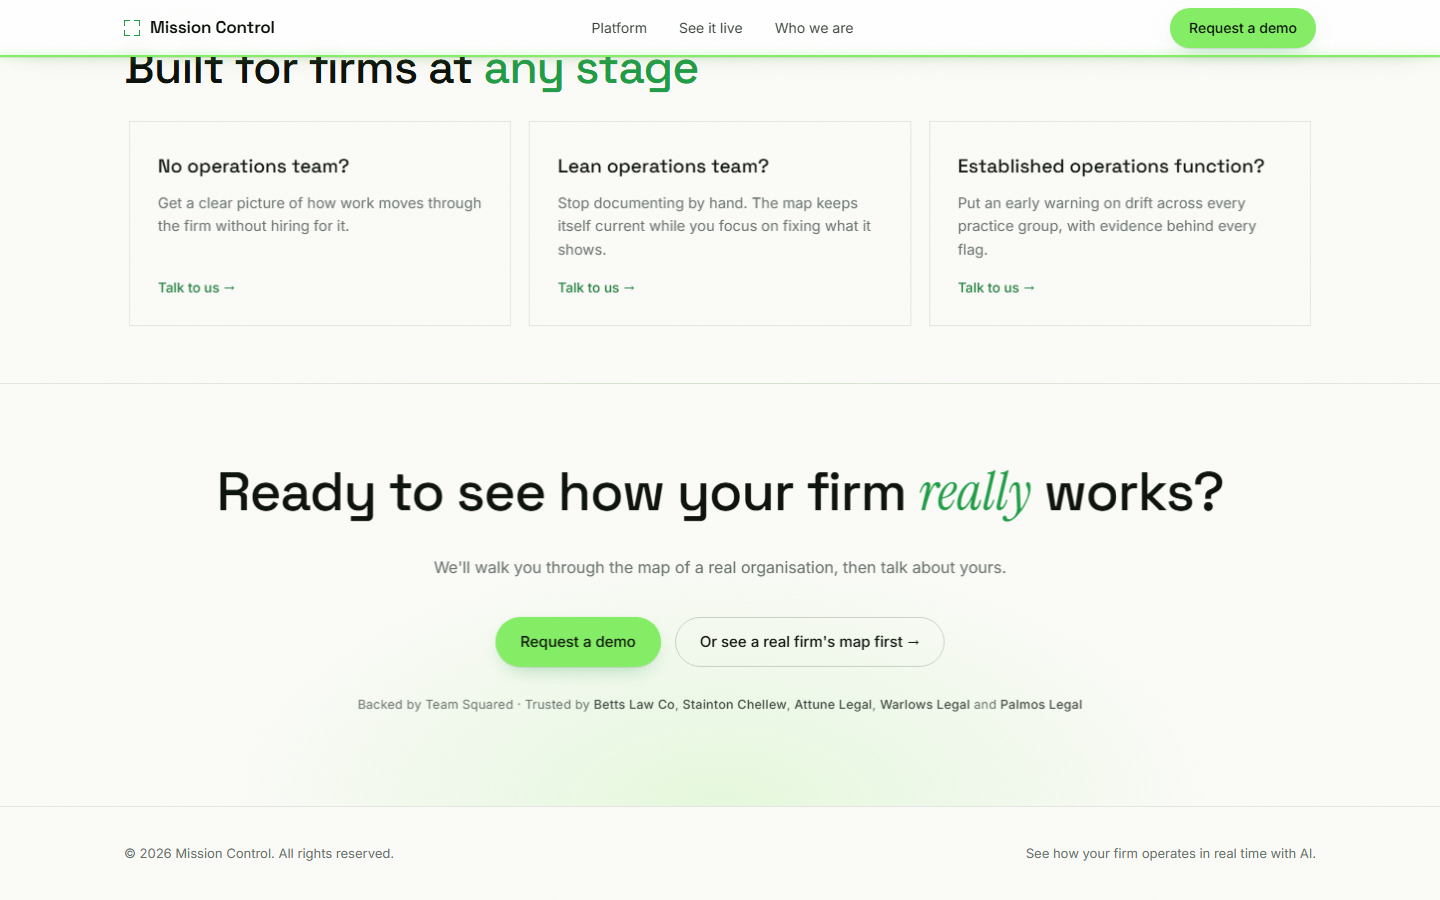
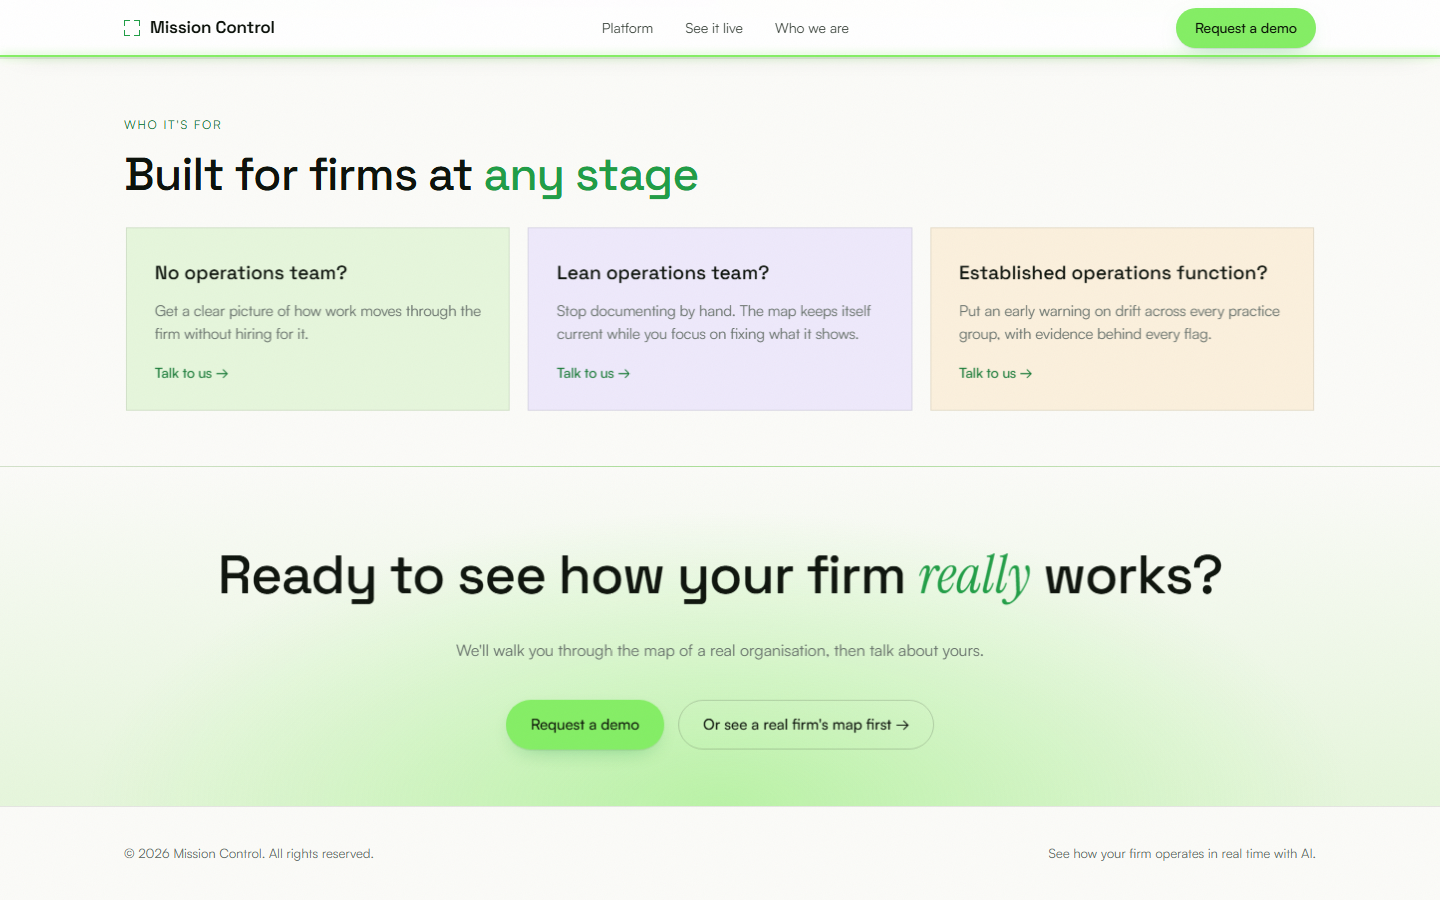
Colour bands, Satoshi body face, hero map in a window, atlas button
- Page alternates tints instead of staying white: gradient hero wash, tinted
  problem cards, a deep-forest band for "we ran it on ourselves", lime-tinted
  statement, violet-tinted "What Mission Control does", tinted privacy and
  stage cards, stronger lime wash on the close
- Body font is Satoshi (Fontshare), matching lex-ops.io; headings keep Space Grotesk
- Hero map sits inside a framed window beside the copy; departments repel
  harder inside a window so labels never touch
- Closing proof line removed; "Drag · Hover" capitalised
- Atlas: "Open workflow" is a proper lime pill; deep-dive panel lists workflows

diff --git a/src/styles.css b/src/styles.css
@@ -23,9 +23,16 @@
   --glow-magenta: #d948ae;
   --ember: #f59e0b;
   --amber: #d98a1e;
+  /* colour bands — the page alternates tints instead of staying white */
+  --tint-green: #e6f6dc;
+  --tint-green-2: #d7f2c8;
+  --tint-violet: #eee9fb;
+  --tint-amber: #fbf0dd;
+  --ink-band: #0c2416;
+  --ink-band-2: #113520;
 
   --font-display: "Space Grotesk", "Segoe UI", system-ui, sans-serif;
-  --font-body: "Inter", "Segoe UI", system-ui, sans-serif;
+  --font-body: "Satoshi", "Inter", "Segoe UI", system-ui, sans-serif; /* Satoshi via Fontshare, same as lex-ops.io */
   --font-serif: "Instrument Serif", Georgia, serif;
 
   --max-w: 1240px;
@@ -205,8 +212,9 @@ body[data-view] main, body[data-view] footer { display: none; }
   padding: 104px 0 40px;
   overflow: hidden;
   background:
-    radial-gradient(900px 620px at 72% 50%, rgba(132, 238, 100, 0.14), transparent 62%),
-    var(--bg-0);
+    radial-gradient(900px 620px at 72% 50%, rgba(132, 238, 100, 0.28), transparent 62%),
+    radial-gradient(700px 500px at 10% 100%, rgba(124, 58, 237, 0.10), transparent 60%),
+    linear-gradient(180deg, #edf8e6 0%, var(--bg-0) 78%);
 }
 /* the map lives inside a window beside the copy — it never sprawls behind the headline */
 .hero-panel { height: 540px; }
@@ -365,9 +373,12 @@ body[data-view] main, body[data-view] footer { display: none; }
 
 /* ---------- privacy stat row ---------- */
 .gov-row { display: grid; grid-template-columns: repeat(4, 1fr); border: 1px solid var(--border); margin-top: 26px; background: var(--bg-0); }
-.gov { padding: 28px 26px 30px; border-right: 1px solid var(--border); transition: background 0.3s; }
+.gov { padding: 28px 26px 30px; border-right: 1px solid var(--border); transition: background 0.3s; background: var(--tint-green); }
+.gov:nth-child(2) { background: var(--tint-violet); }
+.gov:nth-child(3) { background: var(--tint-amber); }
+.gov:nth-child(4) { background: var(--tint-green-2); }
 .gov:last-child { border-right: 0; }
-.gov:hover { background: var(--bg-1); }
+.gov:hover { filter: brightness(1.02); }
 .gov-n { font-family: var(--font-display); font-size: clamp(1.9rem, 3vw, 2.5rem); font-weight: 500; letter-spacing: -0.03em; color: var(--accent-deep); line-height: 1; }
 .gov-l { font-family: var(--font-display); font-size: 0.95rem; color: var(--text-hi); margin: 8px 0 10px; }
 .gov p { font-size: 0.84rem; }
@@ -376,10 +387,12 @@ body[data-view] main, body[data-view] footer { display: none; }
 .stage-cards { display: grid; grid-template-columns: repeat(3, 1fr); gap: 18px; margin-top: 26px; }
 .stage-card {
   display: flex; flex-direction: column; gap: 10px; padding: 30px 28px 26px;
-  border: 1px solid var(--border); background: var(--bg-0);
+  border: 1px solid var(--border); background: var(--tint-green);
   transition: transform 0.3s var(--ease-out-expo), border-color 0.3s, background 0.3s;
 }
-.stage-card:hover { transform: translateY(-3px); border-color: var(--border-strong); background: var(--bg-1); }
+.stage-card:nth-child(2) { background: var(--tint-violet); }
+.stage-card:nth-child(3) { background: var(--tint-amber); }
+.stage-card:hover { transform: translateY(-3px); border-color: var(--border-strong); }
 .stage-card h4 { font-family: var(--font-display); font-weight: 500; font-size: 1.2rem; color: var(--text-hi); }
 .stage-card p { font-size: 0.92rem; flex: 1; }
 .card-cta { font-size: 0.85rem; color: var(--accent-deep); font-weight: 500; margin-top: 6px; }
@@ -405,8 +418,12 @@ body[data-view] main, body[data-view] footer { display: none; }
   border-right: 1px solid var(--border);
   transition: background 0.3s;
 }
-.villain-card:hover { background: var(--bg-1); }
+.villain-card:nth-child(1) { background: var(--tint-green); }
+.villain-card:nth-child(2) { background: var(--tint-violet); }
+.villain-card:nth-child(3) { background: var(--tint-amber); }
+.villain-card:hover { filter: brightness(1.02); }
 .villain-card.scan-frame > .c { z-index: 2; }
+.v-hop .tool { fill: rgba(255,255,255,0.7); }
 .villain-card:last-child { border-right: 0; }
 .villain-card .viz {
   height: 130px;
@@ -611,7 +628,7 @@ body[data-view] main, body[data-view] footer { display: none; }
   gap: 64px;
   align-items: center;
   border: 1px solid var(--border);
-  background: var(--bg-1);
+  background: linear-gradient(135deg, var(--tint-green), #f5f1fd);
   padding: 28px 32px;
 }
 #how-canvas { width: 100%; height: 320px; display: block; }
@@ -641,8 +658,9 @@ body[data-view] main, body[data-view] footer { display: none; }
   height: 420px;
   display: block;
   border: 1px solid var(--border);
-  background: var(--bg-1);
+  background: linear-gradient(135deg, var(--tint-green), #f5f1fd);
 }
+#trust { background: linear-gradient(180deg, var(--tint-green), var(--bg-0)); }
 .p-copy h3 { font-size: clamp(1.5rem, 2.6vw, 2.1rem); margin-bottom: 16px; }
 .p-copy p { font-size: 0.95rem; max-width: 50ch; margin-bottom: 14px; }
 .p-copy .plist { list-style: none; margin-top: 20px; }
@@ -654,7 +672,6 @@ body[data-view] main, body[data-view] footer { display: none; }
 }
 
 /* ---------- trust ---------- */
-#trust { background: var(--bg-1); }
 #trust .pillars {
   display: grid;
   grid-template-columns: repeat(4, 1fr);
@@ -666,7 +683,8 @@ body[data-view] main, body[data-view] footer { display: none; }
   border-right: 1px solid var(--border);
   transition: background 0.3s;
 }
-.pillar:hover { background: var(--bg-0); }
+.pillar { background: rgba(255,255,255,0.6); }
+.pillar:hover { background: #fff; }
 .pillar:last-child { border-right: 0; }
 .pillar h4 { font-family: var(--font-display); font-weight: 500; font-size: 1.05rem; color: var(--text-mid); margin-bottom: 10px; }
 .pillar p { font-size: 0.85rem; }
@@ -682,8 +700,23 @@ body[data-view] main, body[data-view] footer { display: none; }
 .head-center .section-sub { text-align: center; }
 .villain-card h3 { font-size: 1.35rem; color: var(--text-hi); }
 
-/* ---------- the interactive module: "we built real visibility inside our own team first" ---------- */
-#visibility { background: var(--bg-1); }
+/* ---------- "we built real visibility inside our own team first": a deep-forest band ---------- */
+#visibility {
+  background:
+    radial-gradient(800px 500px at 85% 20%, rgba(132,238,100,0.18), transparent 60%),
+    linear-gradient(160deg, var(--ink-band-2), var(--ink-band));
+  border-top: 0;
+}
+#visibility .eyebrow { color: var(--accent-bright); }
+#visibility .section-h { color: #f4f7f1; }
+#visibility .section-h .kw { color: var(--accent-bright); }
+#visibility .lede { color: #c9d6c7; }
+#visibility .proof-stats { border-top-color: rgba(255,255,255,0.14); }
+#visibility .pstat { border-bottom-color: rgba(255,255,255,0.12); }
+#visibility .pstat-n { color: var(--accent-bright); }
+#visibility .pstat-l { color: #f4f7f1; }
+#visibility .pstat p { color: #a7b8a6; }
+#visibility .atlas-preview { border-color: rgba(132,238,100,0.35); box-shadow: 0 40px 100px -40px rgba(0,0,0,0.8), 0 0 0 1px rgba(255,255,255,0.05); }
 .module-grid { display: grid; grid-template-columns: minmax(0, 0.85fr) minmax(0, 1.15fr); gap: 48px; align-items: center; margin-top: 12px; }
 .module-panel {
   position: relative; height: 520px; overflow: hidden;
@@ -698,8 +731,8 @@ body[data-view] main, body[data-view] footer { display: none; }
 .module-copy .section-h { margin-bottom: 14px; }
 .module-copy .lede { font-size: 1.05rem; color: var(--text-mid); margin-bottom: 26px; max-width: 44ch; }
 
-/* ---------- statement ---------- */
-#statement { padding: var(--sec-pad) 0; }
+/* ---------- statement: lime-tinted band ---------- */
+#statement { padding: var(--sec-pad) 0; background: linear-gradient(180deg, var(--tint-green), var(--tint-green-2)); border-top: 0; }
 .statement-big {
   font-family: var(--font-display);
   font-size: clamp(2rem, 4.6vw, 3.8rem);
@@ -711,8 +744,10 @@ body[data-view] main, body[data-view] footer { display: none; }
 }
 .statement-sub { max-width: 58ch; margin: 0 auto; font-size: 1.05rem; }
 
-/* ---------- what Mission Control does: a demarcated band ---------- */
-#solution { padding: var(--sec-pad) 0; background: var(--bg-1); border-top: 1px solid var(--border); border-bottom: 1px solid var(--border); }
+/* ---------- what Mission Control does: a violet-tinted band ---------- */
+#solution { padding: var(--sec-pad) 0; background: linear-gradient(180deg, var(--tint-violet), #f6f3fd); border-top: 1px solid var(--border); border-bottom: 1px solid var(--border); }
+#solution .context-card { border-top-color: rgba(124,58,237,0.16); }
+#solution .context-card:last-child { border-bottom-color: rgba(124,58,237,0.16); }
 
 /* ---------- who we are ---------- */
 #about .story {
@@ -737,8 +772,9 @@ body[data-view] main, body[data-view] footer { display: none; }
   align-items: start;
   padding: 20px;
   border: 1px solid var(--border);
-  background: var(--bg-1);
+  background: var(--tint-green);
 }
+.team-card:nth-child(2) { background: var(--tint-violet); }
 .team-photo {
   aspect-ratio: 4 / 5;
   overflow: hidden;
@@ -813,13 +849,11 @@ body[data-view] main, body[data-view] footer { display: none; }
   text-align: center;
   padding: 64px 0 56px;
   border-top: 1px solid var(--border);
-  background: radial-gradient(700px 360px at 50% 100%, rgba(132, 238, 100, 0.18), transparent 70%), var(--bg-0);
+  background: radial-gradient(900px 420px at 50% 100%, rgba(132, 238, 100, 0.45), transparent 70%), linear-gradient(180deg, var(--bg-0), var(--tint-green));
 }
 .end-block h2 { font-size: clamp(2rem, 4.4vw, 3.4rem); margin-bottom: 20px; }
 .end-block p { margin-bottom: 36px; }
 .end-ctas { display: flex; gap: 14px; justify-content: center; flex-wrap: wrap; }
-.end-proof { margin-top: 28px; font-size: 0.78rem; color: var(--text-lo); letter-spacing: 0.02em; }
-.end-proof b { color: var(--text-mid); font-weight: 500; }
 
 /* ---------- footer ---------- */
 footer {

diff --git a/index.html b/index.html
@@ -7,7 +7,9 @@
   <meta name="description" content="Mission Control draws a living map of how your firm's legal work really moves — so you catch operational drift before it happens, not months after." />
   <link rel="preconnect" href="https://fonts.googleapis.com" />
   <link rel="preconnect" href="https://fonts.gstatic.com" crossorigin />
-  <link href="https://fonts.googleapis.com/css2?family=Space+Grotesk:wght@400;500;600&family=Inter:wght@400;500&family=Instrument+Serif:ital@0;1&display=swap" rel="stylesheet" />
+  <link href="https://fonts.googleapis.com/css2?family=Space+Grotesk:wght@400;500;600&family=Instrument+Serif:ital@0;1&display=swap" rel="stylesheet" />
+  <link rel="preconnect" href="https://api.fontshare.com" crossorigin />
+  <link href="https://api.fontshare.com/v2/css?f[]=satoshi@400,500,700&display=swap" rel="stylesheet" />
   <link rel="stylesheet" href="/src/styles.css" />
   <link rel="stylesheet" href="/src/atlas.css" />
   <noscript><style>.reveal { opacity: 1 !important; transform: none !important; } .zs { opacity: 1 !important; transform: none !important; }</style></noscript>
@@ -315,7 +317,6 @@
         <a class="btn btn-primary" href="#try">Request a demo</a>
         <a class="btn btn-ghost" href="#try">Or see a real firm's map first →</a>
       </div>
-      <p class="end-proof reveal">Backed by Team Squared · Trusted by <b>Betts Law Co</b>, <b>Stainton Chellew</b>, <b>Attune Legal</b>, <b>Warlows Legal</b> and <b>Palmos Legal</b></p>
     </div>
   </section>
 

diff --git a/src/atlas.css b/src/atlas.css
@@ -364,8 +364,16 @@
 .chip-code { font-size: 0.62rem; letter-spacing: 0.1em; color: var(--glow-violet); border: 1px solid rgba(139,92,246,0.55); padding: 2px 6px; }
 .chip-name { font-family: var(--font-display); font-size: 0.9rem; color: var(--text-hi); }
 .chip-meta { font-size: 0.7rem; color: var(--text-lo); }
-.chip-open { background: var(--accent) !important; color: var(--accent-ink); font-size: 0.75rem; font-weight: 500; padding: 7px 12px; margin-left: 4px; transition: opacity .15s; }
-.chip-open:hover { opacity: 0.9; }
+.chip-open {
+  background: #84ee64 !important; color: #0a1406 !important;
+  font-family: var(--font-display); font-size: 0.82rem; font-weight: 600; letter-spacing: -0.01em;
+  padding: 10px 18px; margin-left: 6px; border-radius: 999px;
+  box-shadow: 0 0 0 1px rgba(132,238,100,0.35), 0 10px 28px -10px rgba(132,238,100,0.9);
+  transition: transform .18s cubic-bezier(.2,.8,.25,1), box-shadow .18s, filter .18s;
+}
+.chip-open:hover { transform: translateY(-1px); filter: brightness(1.06); box-shadow: 0 0 0 1px rgba(132,238,100,0.5), 0 14px 32px -10px rgba(132,238,100,1); }
+.chip-open:active { transform: translateY(0); }
+.graph-wf-chip { border-radius: 10px; box-shadow: 0 20px 60px -20px rgba(139,92,246,0.6); }
 
 /* ============ Focus window — IDE chrome ============ */
 .focus-chips { display: flex; gap: 8px; flex-wrap: wrap; }

diff --git a/src/main.js b/src/main.js
@@ -160,7 +160,7 @@ function bracket(ctx, x, y, w, h, size, color, alpha = 1) {
 function label(ctx, text, x, y, color = C.lo, size = 10, align = 'left') {
   ctx.save();
   ctx.fillStyle = color;
-  ctx.font = `${size}px Inter, sans-serif`;
+  ctx.font = `${size}px Satoshi, Inter, sans-serif`;
   ctx.textAlign = align;
   ctx.fillText(text, x, y);
   ctx.restore();
